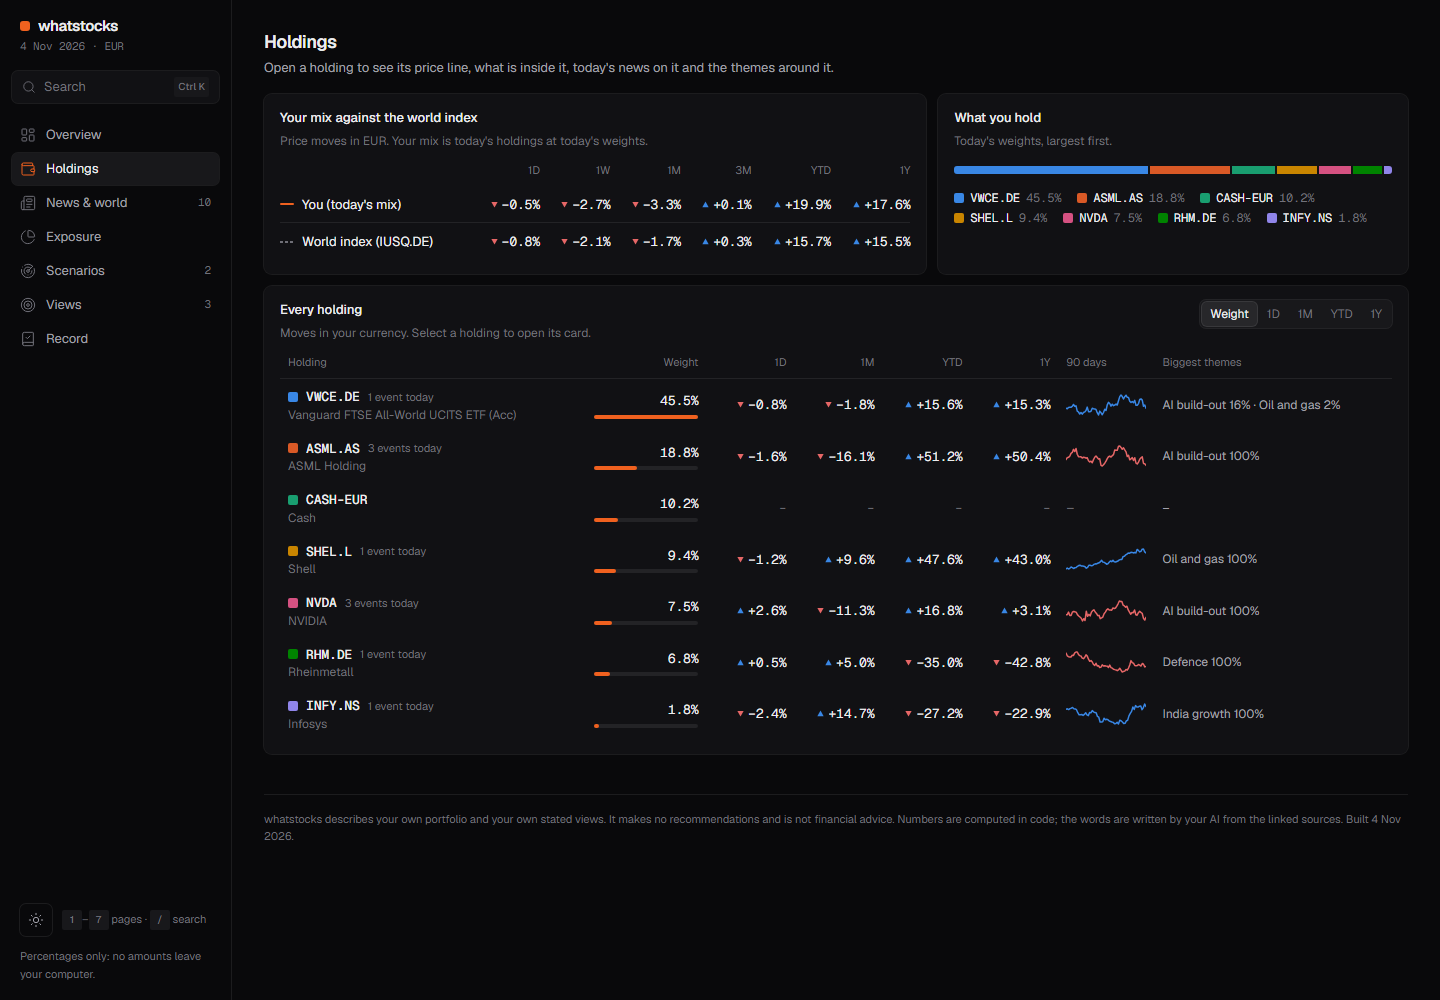
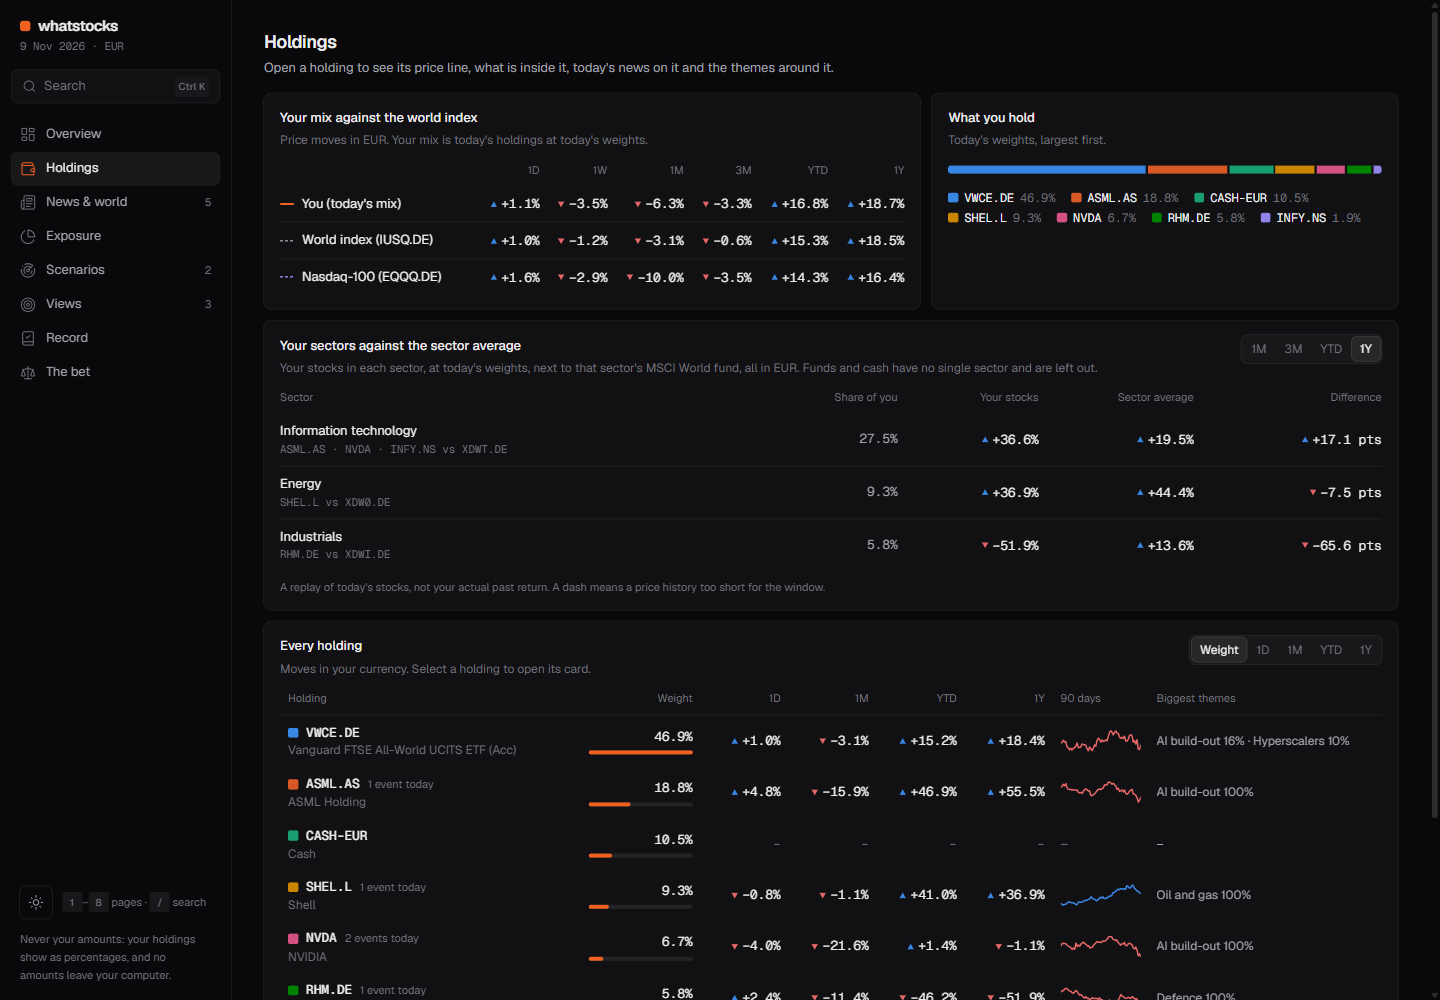
README: Nasdaq-100 and sector comparisons, fresh screenshots
New section on comparing your mix with the Nasdaq-100 and each sector with its
MSCI World fund, the compare: setting, and all seven page screenshots retaken
from today's demo (eight-page sidebar, Nasdaq line, sector table).

diff --git a/README.md b/README.md
@@ -15,7 +15,7 @@ crash, and shows how much of your money each one would reach.
 It helps you understand the world and your own relationship with it. It never
 tells you what to buy or sell.
 
-![The Overview page: your mix against the world index, the morning brief, your biggest themes and things to watch](docs/images/overview.png)
+![The Overview page: your mix against the world index and the Nasdaq-100, the morning brief, and your sectors against the sector average](docs/images/overview.png)
 
 Your own AI assistant (Claude Code, or any other AI coding agent) runs it
 on your own machine. There is
@@ -35,8 +35,8 @@ eight pages, in a dark or a light theme:
 
 | Tab | Question it answers |
 |---|---|
-| **Overview** | How did my mix do today and over the past year, next to the world index? What matters this morning, and what is coming up? |
-| **Holdings** | For each holding: its price line, what is inside it (companies, countries, themes), today's news on it, and the state of the themes around it. |
+| **Overview** | How did my mix do today and over the past year, next to the world index and the Nasdaq-100? How do my stocks in each sector do against that sector's average? What matters this morning, and what is coming up? |
+| **Holdings** | My mix against the world index and the Nasdaq-100 over six windows, my sectors against their averages, and for each holding: its price line, what is inside it (companies, countries, themes), today's news on it, and the state of the themes around it. |
 | **News & world** | Which of the 10 geopolitical themes matter to *my* money today, what state each is in, how events ripple from one theme to another (especially into AI), and what to watch next. |
 | **Exposure** | Where is my money actually exposed (AI build-out, defence, oil, India, ...), and how does that compare with a plain world index fund? Which holding puts me into which theme? |
 | **Scenarios** | If a conflict I name broke out, where would it reach my money? A bubble map of every theme and region it touches, my share against the world's. |
@@ -51,7 +51,7 @@ eight pages, in a dark or a light theme:
 </tr>
 <tr>
 <td><img src="docs/images/scenarios.png" alt="Scenarios: a bubble map of where a China blockade of Taiwan would reach the portfolio"><br><b>Scenarios.</b> Where a conflict you name would reach your money.</td>
-<td><img src="docs/images/holdings.png" alt="Holdings: every holding with its moves, 90-day line and biggest themes"><br><b>Holdings.</b> Each holding's moves, what is inside it and its themes.</td>
+<td><img src="docs/images/holdings.png" alt="Holdings: your mix against the world index and the Nasdaq-100, your sectors against their averages, and every holding with its moves"><br><b>Holdings.</b> Your mix and sectors against their benchmarks, and each holding's moves and themes.</td>
 </tr>
 <tr>
 <td><img src="docs/images/views.png" alt="Views: your calls with probabilities, deadlines and today's evidence for or against"><br><b>Views.</b> Your calls, and the news for and against them.</td>
@@ -78,6 +78,24 @@ The brief does not tell you what to think about an event. It gives you a
 fixed way to read one. It must give a line on every theme that is 2% or more
 of your portfolio or that one of your views names, and it leaves out the
 themes that do not touch you.
+
+### Against the Nasdaq and your sectors
+
+The Overview chart draws your mix next to the world index and the
+Nasdaq-100, all in your own currency. Below it, your stocks are grouped by
+sector, and each group is set against that sector's average: the MSCI World
+fund for the sector (for example `XDWS.DE` for consumer staples), over one
+month, three months, the year to date or a year. Funds and cash have no
+single sector, so they stay out of that table. Every line is today's mix
+replayed over the window, not your actual past return.
+
+To compare with another index, add it to `my/settings.yaml`:
+
+```yaml
+compare:
+  Nasdaq-100: EQQQ.DE
+  S&P 500: SXR8.DE
+```
 
 ### Conflict scans
 
@@ -216,6 +234,7 @@ words:
 | "Put my views at the top of the Overview page." | The page, in `web/` |
 | "Add a card showing my exposure to the US dollar." | The numbers in Python, then a card on the page |
 | "Make the accent colour green." | The page's colour tokens |
+| "Compare my mix with the S&P 500 too." | Your settings, `compare:` in `my/settings.yaml` |
 | "On the bet page, start with 6 years of GPU life, and count a crash in credit as evidence for my capex view." | Your bet file, `my/bet.yaml` |
 
 The theme map that ships with whatstocks is a starting opinion, not a fact.
